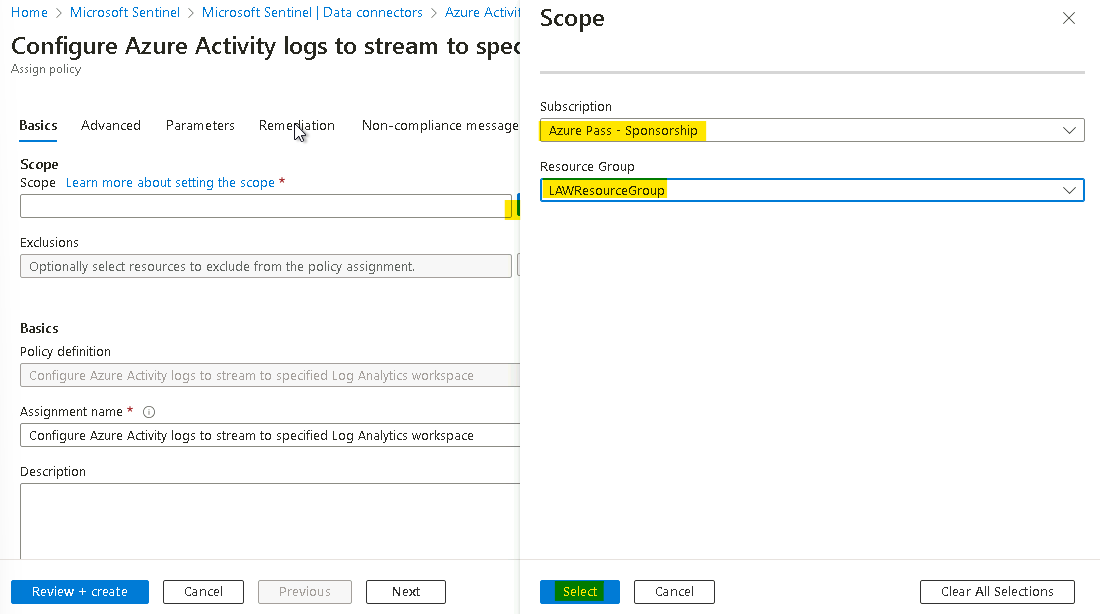
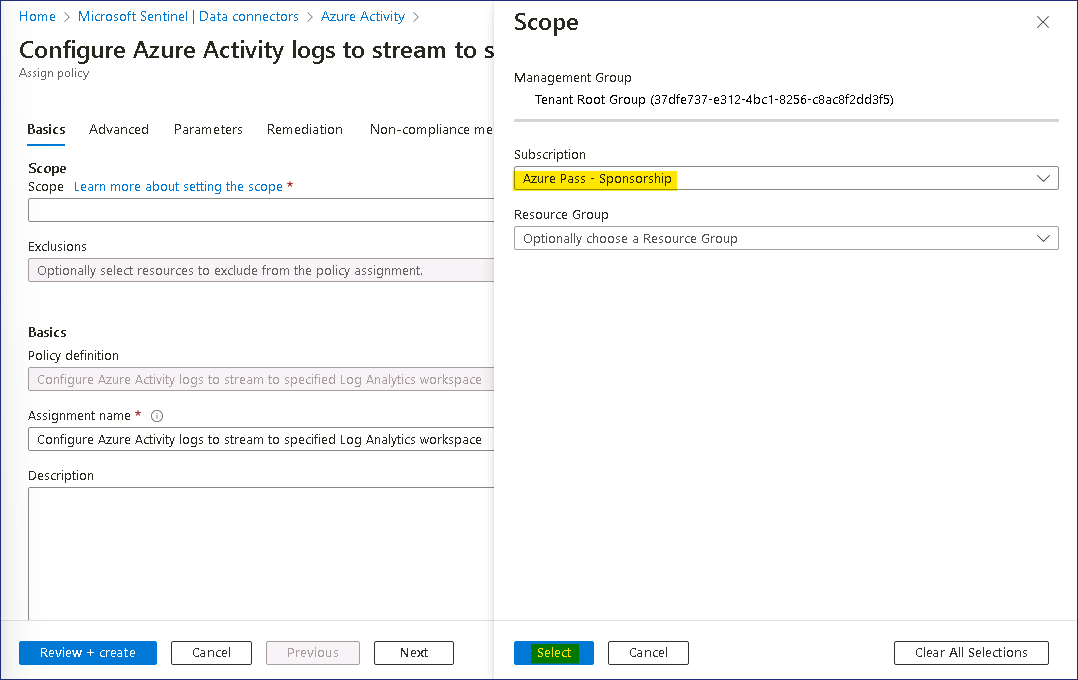
Lab 5 updates

diff --git a/Lab Guides/Lab 5 - Defender for Cloud & Sentinel/Lab 5 - Defender for Cloud & Sentinel.md b/Lab Guides/Lab 5 - Defender for Cloud & Sentinel/Lab 5 - Defender for Cloud & Sentinel.md
@@ -124,11 +124,11 @@
 In this exercise we will see how to create a Microsoft Sentinel
 workspace.
 
-1.  Navigate to the **http://portal.azure.com** and log in with the
-    **MOD Administrator** credentials provided on the home tab of your
+1.  Navigate to the ```https://portal.azure.com``` and log in with the
+    **MOD Administrator** credentials provided with the Lab resources of your
     lab environment.
 
-2.  In the top search bar, type **Microsoft Sentinel** and click on
+2.  In the top search bar, type ```Microsoft Sentinel``` and click on
     **Microsoft Sentinel**.
 
       ![](./media/image19.png)
@@ -152,9 +152,9 @@ workspace.
 
     1.  Subscription: **Azure Pass - Sponsorship**
 
-    2.  Resource Group: click on **Create new** **LAWResourceGroup**
+    2.  Resource Group: click on **Create new** ``LAWResourceGroup``
 
-    3.  Workspace Name: **SentWrkspcXXXXXX** \[substitute **XXXXXX**
+    3.  Workspace Name: ```SentWrkspcXXXXXX``` [substitute **XXXXXX**
         with random number\]
 
     4.  Region: **West US**
@@ -164,8 +164,7 @@ workspace.
       ![](./media/image22.png)      
 
 
-6.  Click **Create** after the validation is completed. The creation
-    takes a few seconds.
+6.  Click **Create** after the validation is completed. The creation takes a few seconds.
 
       ![](./media/image23.png) 
  
@@ -176,7 +175,7 @@ workspace.
       ![](./media/image24.png) 
  
 
-8.  Select your workspace and click **Add** at the bottom.
+8.  Select your workspace that you just created and click **Add** at the bottom.
 
       ![](./media/image25.png)
  
@@ -186,7 +185,7 @@ workspace.
       ![](./media/image26.png)
  
 
-10. Your Microsoft Sentinel workspace is now ready to use!
+10. Your Microsoft Sentinel workspace is now ready to use, click on the **OK** button to proceed.
 
       ![](./media/image27.png) 
  
@@ -216,12 +215,12 @@ This exercise shows you how to enable Data connectors.
       ![](./media/image31.png) 
 
 4.  On the Azure Portal
-    [**http://portal.azure.com**](http://portal.azure.com) and search
-    for **Microsoft Sentinel** and click on **Microsoft Sentinel**.
+    ```https://portal.azure.com``` and search
+    for ```Microsoft Sentinel``` and click on **Microsoft Sentinel**.
 
       ![](./media/image32.png) 
 
-5.  Select **SentWrkspc123456**.
+5.  Select **SentWrkspcXXXXXX**.
 
       ![](./media/image33.png)  
 
@@ -230,8 +229,8 @@ This exercise shows you how to enable Data connectors.
       ![](./media/image34.png)   
  
 
-7.  You should get the message “Data Connector with "content source =
-    gallery content" have been removed. In that message select the
+7.  You should get the message **Data Connector with "content source =
+    gallery content" have been removed.** In that message select the
     **Click here** link
 
       ![](./media/image35.png)      
@@ -255,24 +254,30 @@ This exercise shows you how to enable Data connectors.
 
       ![](./media/image39.png)
     
-13. Click on the **Refresh** button and you should be able to see the
+13. Click on the **Refresh** button and you should be able to see the few connectors
     Data connectors showing.
 
       ![](./media/image40.png) 
  
 
-14. Click on **Content hub**
+      <font color=darkgreen>
+      
+      > **Note** - Sometime it may not install any connector, which is also fine to proceed ahead with the Labs.
+
+      </font>
+
+14. Click on **Content hub** under **Content management**
 
       ![](./media/image41.png)
  
 
-15. On the Content hub page search for **Azure Activity** and then
+15. On the Content hub page search for ```Azure Activity``` and then
     select **Azure Activity** content and click on **Install** button
 
       ![](./media/image42.png) 
  
 
-16. On the Content hub page search for **Microsoft defender for cloud**
+16. On the Content hub page search for ```Microsoft defender for cloud```
     and then select **Microsoft Defender for Cloud** content and click
     on **Install** button
 
@@ -289,7 +294,7 @@ your Azure subscription, into your Microsoft Sentinel workspace.
 
       ![](./media/image44.png) 
 
-2.  In the data connectors screen, type **activity** in the search bar,
+2.  In the data connectors screen, type ```activity``` in the search bar,
     select the **Azure Activity** connector and click on **Open
     connector page**.
 
@@ -305,11 +310,10 @@ your Azure subscription, into your Microsoft Sentinel workspace.
 
       ![](./media/image46.png)  
 
-4.  On the **Scope** selection select **Azure Pass – Sponsorship** and
-    under **Resource Group** select **LAWResourceGroup**. Click
+4.  On the **Scope** selection select **Azure Pass – Sponsorship**. Click
     **Select**.
 
-      ![](./media/image47.png)   
+      ![](./media/image47.png)
 
 5.  Go to the **Parameters** tab. On the **Primary Log Analytics
     workspace** select the **MicrosoftSentinelWorkspace**.
@@ -324,8 +328,7 @@ your Azure subscription, into your Microsoft Sentinel workspace.
 
 7.  On the **Review + create** tab, click on the **Create** button.
 
-      ![](./media/image50.png)  
-
+      ![](./media/image50.png)
 
 8.  In the **Notification** pane you will be able to see the ‘**Role
     Assignments creation succeeded**’, ‘**Remediation task creation
@@ -338,17 +341,18 @@ your Azure subscription, into your Microsoft Sentinel workspace.
     connection status.
 
       ![](./media/image52.png)  
-  
-<span class="mark">**Note**: It is normal if you don't immediately see
-the connector showing as connected and in green, it takes around 30
-minutes for the process to complete. Also, each subscription has a
-maximum of 5 destinations for its activity logs. If this limit is
-already reached, the policy created as part of this exercise won't be
-able to add an additional destination to your Microsoft Sentinel
-workspace.</span>
 
-10. Continue to the next exercise then you can check back after 30
-    minutes.
+
+      <font color=darkblue>
+
+
+      > **Note**: It is normal if you don't immediately see
+      the connector showing as **Connected** and in green, it takes around 30
+      minutes for the process to complete.
+      
+      </font>
+
+10. Continue to the next exercise then you can check back after 30 minutes.
 
 ## Task 4: Enable Microsoft Defender for Cloud data connector.
 
@@ -363,12 +367,17 @@ investigate and respond to incidents.
 
       ![](./media/image44.png)    
 
-2.  In the **Data connectors** screen, type **tenant** in the search
+2.  In the **Data connectors** screen, type ```tenant``` in the search
     bar, select the **Tenant-based Microsoft Defender for Cloud**
     **(Preview)** connector and click on **Open connector page**.
 
       ![](./media/image53.png) 
 
+      > **Note** - If you receive the error **Data Connector Not Found**, then navigate to **Content Hub** and then Reinstall the **Microsoft Defender for Cloud Connector** again. 
+
+      ![](./media/image68.png)
+
+      ![](./media/image69.png)
 
 3.  On the **Tenant-based Microsoft Defender for Cloud** **(Preview)**
     connector page, under **Configuration** section click on the
@@ -387,7 +396,7 @@ investigate and respond to incidents.
       ![](./media/image56.png) 
 
 
-6.  Back on the **Data connectors** screen, type **subscription** in the
+6.  Back on the **Data connectors** screen, type ```subscription``` in the
     search bar, select the **Subscription-based Microsoft Defender for
     Cloud** **(legacy)** connector and click on **Open connector page**.
 
@@ -421,7 +430,7 @@ the Sample Alerts.
       ![](./media/image61.png)  
 
 2.  As we have just enabled the **Microsoft Defender for Cloud**
-    connector, it would take some time for the Incident to appear.
+    connector, it would take about 20-30 minutes for the Incidents to appear.
 
 3.  Click on **Overview** under **General** and then toggle the **New
     overview** switch to **Off**
@@ -450,8 +459,10 @@ the Sample Alerts.
       ![](./media/image66.png)    
 
 8.  On the alert expanded details you can see.
+ 
+      <font color=darkred>
 
-    1.  TimeGenerated \[UTC\]
+    1.  TimeGenerated [UTC]
 
     2.  Displayname
 
@@ -467,5 +478,6 @@ the Sample Alerts.
     7.  RemeditalSteps
 
     8.  And other rows with additional information.
+      </font>
 
       ![](./media/image67.png)    
